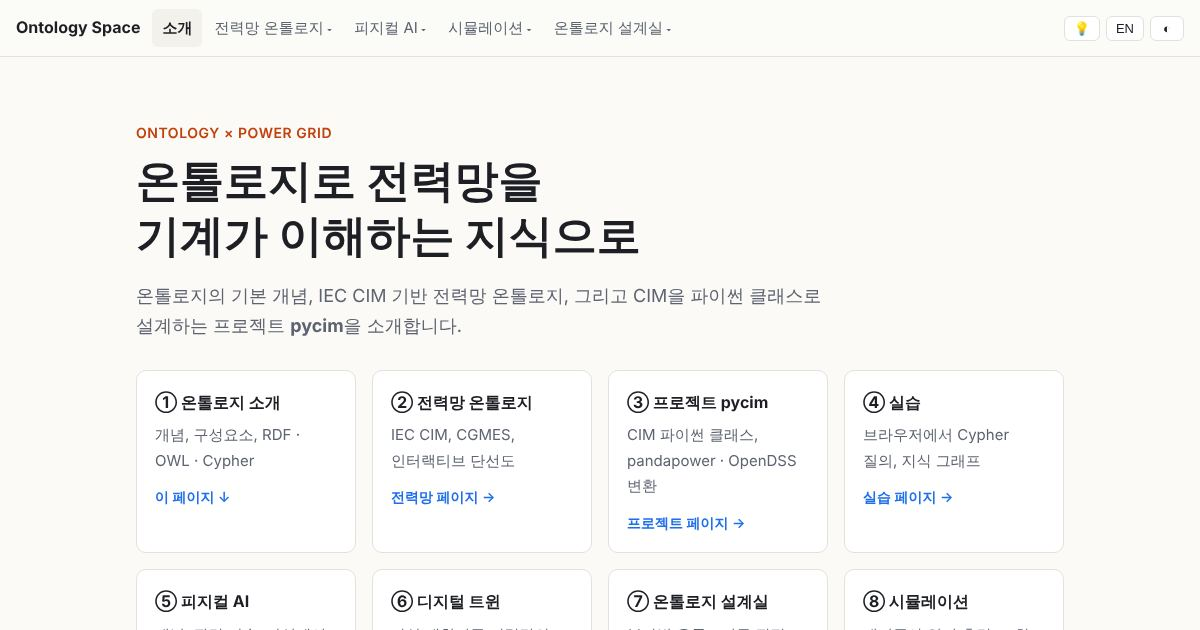
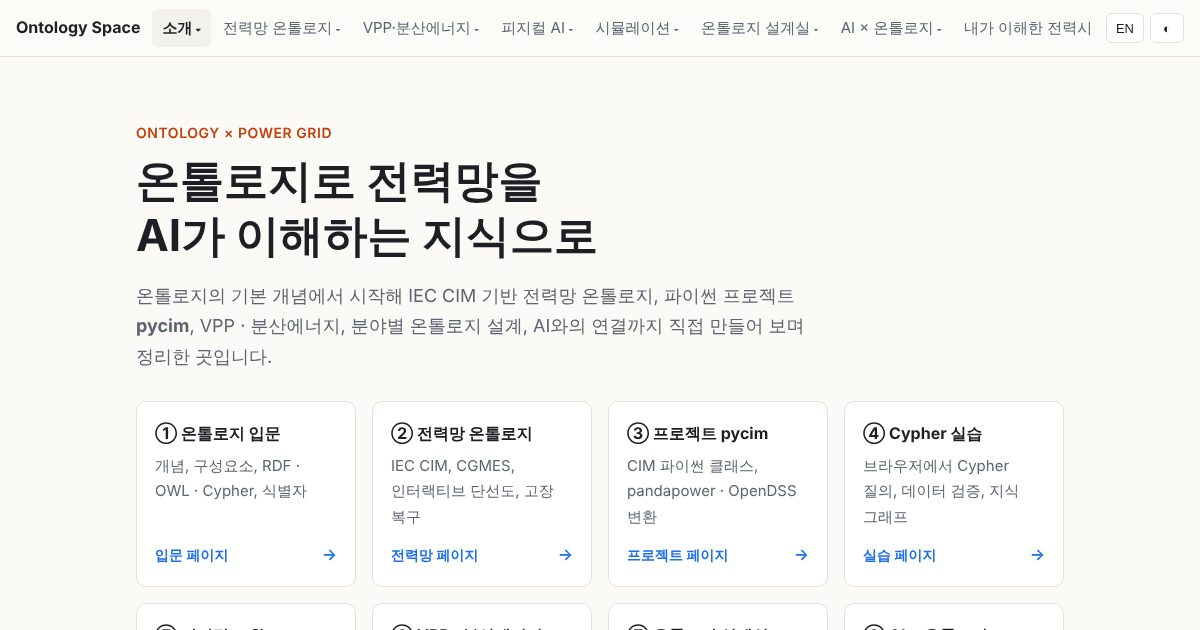
Intro page: tagline now says 'knowledge AI understands'; refresh the share preview image
Claude-Session: https://claude.ai/code/session_018TgSjtkCn3bxX1vZVxLXvG

diff --git a/index.html b/index.html
@@ -115,7 +115,7 @@
 <main id="main" class="wrap">
 <div class="hero">
   <div class="eyebrow">ONTOLOGY × POWER GRID</div>
-  <h1><span lang="ko">온톨로지로 전력망을<br>기계가 이해하는 지식으로</span><span lang="en">Turning the power grid into<br>knowledge machines understand</span></h1>
+  <h1><span lang="ko">온톨로지로 전력망을<br>AI가 이해하는 지식으로</span><span lang="en">Turning the power grid into<br>knowledge AI understands</span></h1>
   <p class="lead" lang="ko">온톨로지의 기본 개념에서 시작해 IEC CIM 기반 전력망 온톨로지, 파이썬 프로젝트 <b>pycim</b>, VPP · 분산에너지, 분야별 온톨로지 설계, AI와의 연결까지 직접 만들어 보며 정리한 곳입니다.</p>
   <p class="lead" lang="en">Starting from what an ontology is, this site works through the IEC CIM–based power grid ontology, the Python project <b>pycim</b>, VPPs and distributed energy, ontology design in several fields, and the link to AI — all built hands-on.</p>
   <div class="grid hero-cards" style="margin-top:28px">
